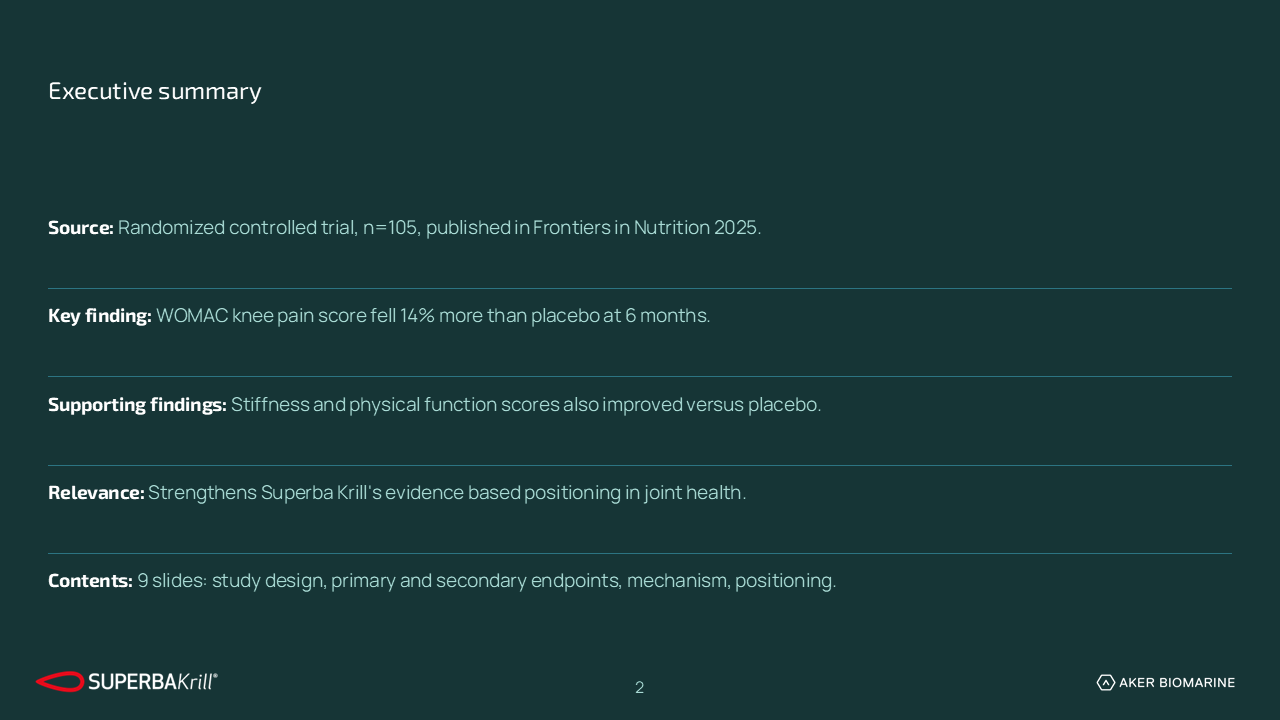
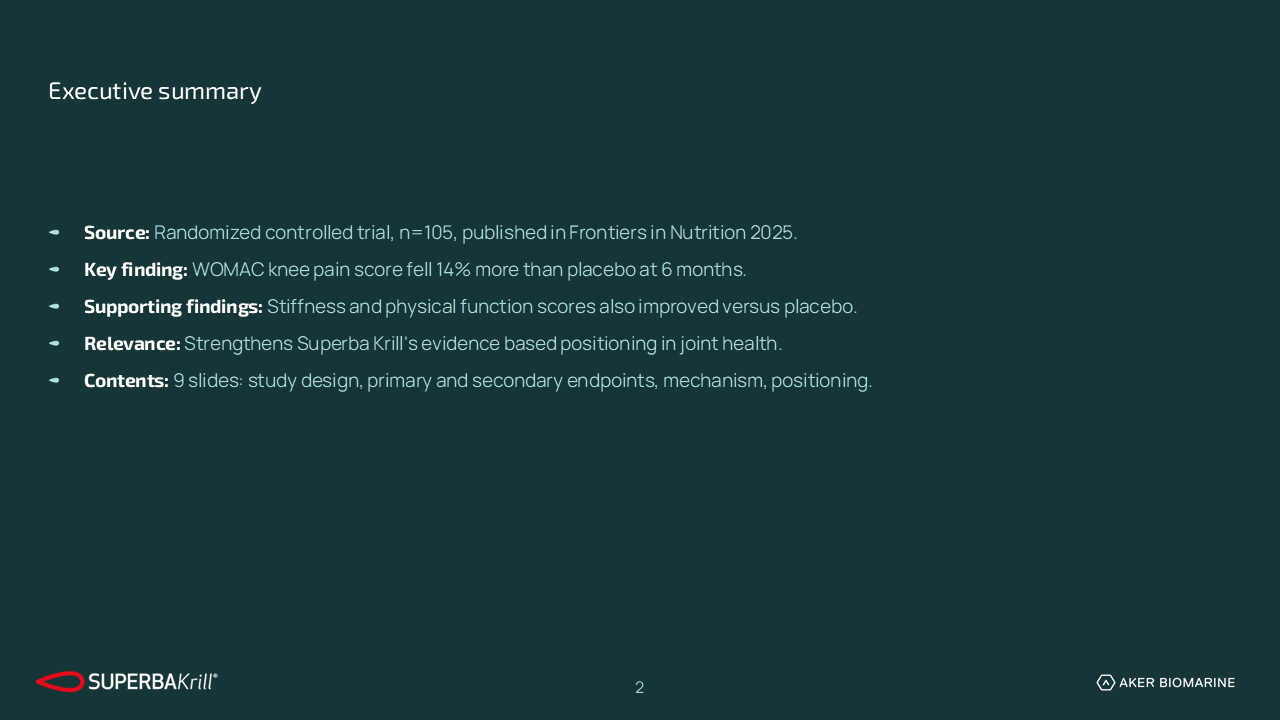
Executive summary: plain bulleted list instead of stacked labelled paragraphs
Client feedback on the first render: the 5-row memo layout (bold label +
paragraph, thin dividers, fixed per-row height slots) read as a data dump,
not a summary, and risked text collisions on longer rows. Switched to the
deck's own standard branded picture-bullet list (renderer._place_labeled_bullets):
one flowing text box, 5 bullets, each a bold lead-in label + sentence(s) —
matches the clean look used everywhere else in the deck and safely wraps
instead of overflowing a fixed slot. Regenerated the About page's stored
preview thumbnail for the new look.

diff --git a/deck-service/src/renderer.py b/deck-service/src/renderer.py
@@ -1259,10 +1259,13 @@ _EXEC_SUMMARY_ROWS = (("source", "Source"), ("key_finding", "Key finding"),
                      ("contents", "Contents"))
 
 
-def _place_labeled_row(slide, l, t, w, h, label: str, text: str) -> None:
-    """One executive-summary row: a bold lead-in label followed inline by its sentence(s), in a
-    single wrapped paragraph — the business-memo style the slide's spec calls for, not a
-    heading-then-body stack."""
+def _place_labeled_bullets(slide, l, t, w, h, rows, size, color, *, font=None, anchor=MSO_ANCHOR.TOP):
+    """Render (label, text) rows as the deck's STANDARD teal picture-bullet list — each bullet a
+    bold lead-in label followed inline by its sentence(s). One flowing text box (not fixed
+    per-row height slots), so a longer row just wraps to another line instead of colliding with
+    the next bullet — the failure mode a fixed-slot layout risks when row lengths vary."""
+    if font is None:
+        font = _BODY
     tb = slide.shapes.add_textbox(Inches(l), Inches(t), Inches(w), Inches(h))
     tf = tb.text_frame
     tf.word_wrap = True
@@ -1270,31 +1273,34 @@ def _place_labeled_row(slide, l, t, w, h, label: str, text: str) -> None:
         tf.auto_size = MSO_AUTO_SIZE.NONE
     except Exception:  # noqa: BLE001
         pass
+    tf.vertical_anchor = anchor
     tf.margin_left = tf.margin_right = Emu(0)
-    p = tf.paragraphs[0]
-    p.line_spacing = _LINE_SPACING
-    r1 = p.add_run(); r1.text = f"{label}: "
-    r1.font.size = Pt(_SZ_BODY); r1.font.bold = True; r1.font.name = _HEAD; r1.font.color.rgb = _WHITE
-    r2 = p.add_run(); r2.text = text or ""
-    r2.font.size = Pt(_SZ_BODY); r2.font.bold = False; r2.font.name = _BODY; r2.font.color.rgb = _LTEAL
+    rid = _bullet_rid(slide)
+    for i, (label, text) in enumerate(rows):
+        p = tf.paragraphs[0] if i == 0 else tf.add_paragraph()
+        p.line_spacing = _LINE_SPACING
+        p.space_after = Pt(10)
+        r1 = p.add_run(); r1.text = f"{label}: "
+        r1.font.size = Pt(size); r1.font.bold = True; r1.font.name = _HEAD; r1.font.color.rgb = _WHITE
+        r2 = p.add_run(); r2.text = text or ""
+        r2.font.size = Pt(size); r2.font.bold = False; r2.font.name = font; r2.font.color.rgb = color
+        if rid:
+            _apply_picture_bullet(p._p, rid)
+    return tb
 
 
 def _fill_exec_summary(prs, spec: dict, dark_index: int) -> None:
     """The deck's REQUIRED executive summary (slide 2, right after the cover): a FIXED static
     title (never the model's — matches ingredient/agenda's forced-text pattern) and exactly 5
     labelled rows (Source / Key finding / Supporting findings / Relevance / Contents), each a
-    bold lead-in label plus 1-2 sentences. A business-memo layout, not icon cards, so the whole
-    deck's argument reads in one glance — no photo, no icons, per the spec."""
+    bold lead-in label plus 1-2 sentences, rendered as the deck's own standard bulleted list — a
+    clean, scannable summary rather than a stacked memo (client feedback on the first cut)."""
     slide = _synth_slide(prs, dark_index, title="Executive summary")
     rows = [(label, spec.get(key, "")) for key, label in _EXEC_SUMMARY_ROWS if spec.get(key)]
-    n = max(1, len(rows))
-    rh = _BODY_H / n
-    for i, (label, text) in enumerate(rows):
-        y = _BODY_TOP + i * rh
-        _place_labeled_row(slide, _MARGIN, y + 0.1, _CONTENT_W, rh - 0.22, label, text)
-        if i < n - 1:
-            ln = slide.shapes.add_shape(_BOX, Inches(_MARGIN), Inches(y + rh - 0.02), Inches(_CONTENT_W), Inches(0.012))
-            ln.fill.solid(); ln.fill.fore_color.rgb = _TEAL2; ln.line.fill.background(); ln.shadow.inherit = False
+    if not rows:
+        return
+    _place_labeled_bullets(slide, _MARGIN, _BODY_TOP + 0.15, _CONTENT_W, _BODY_H - 0.3,
+                           rows, _SZ_BODY, _LTEAL)
 
 
 def _fill_comparison(prs, spec: dict, light_index: int) -> None:
